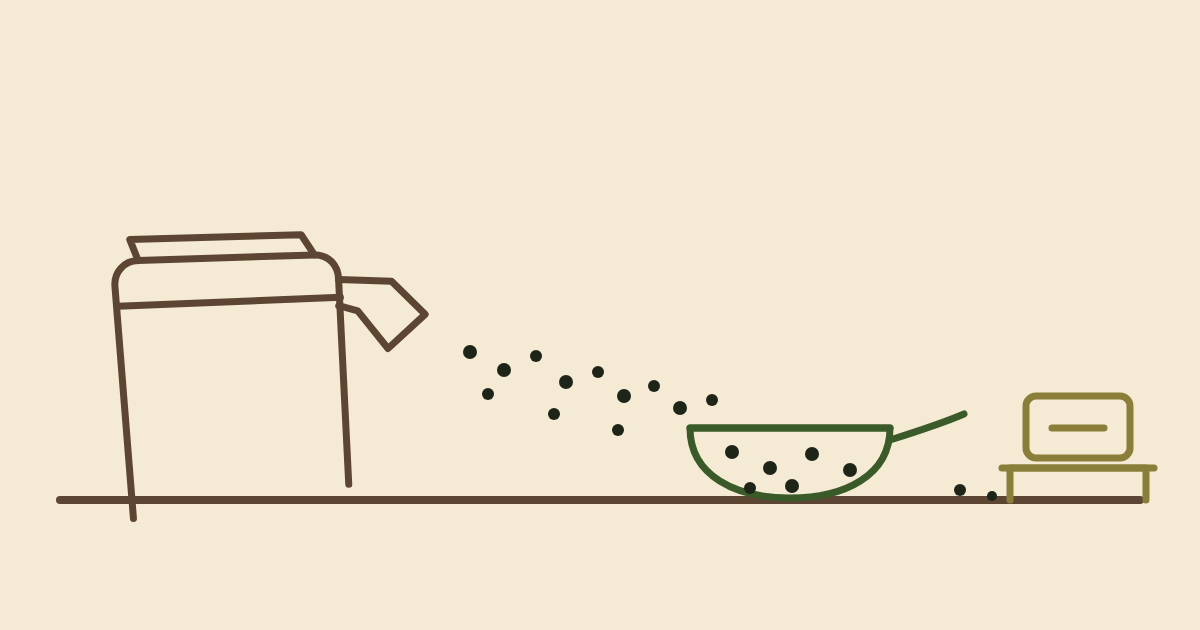
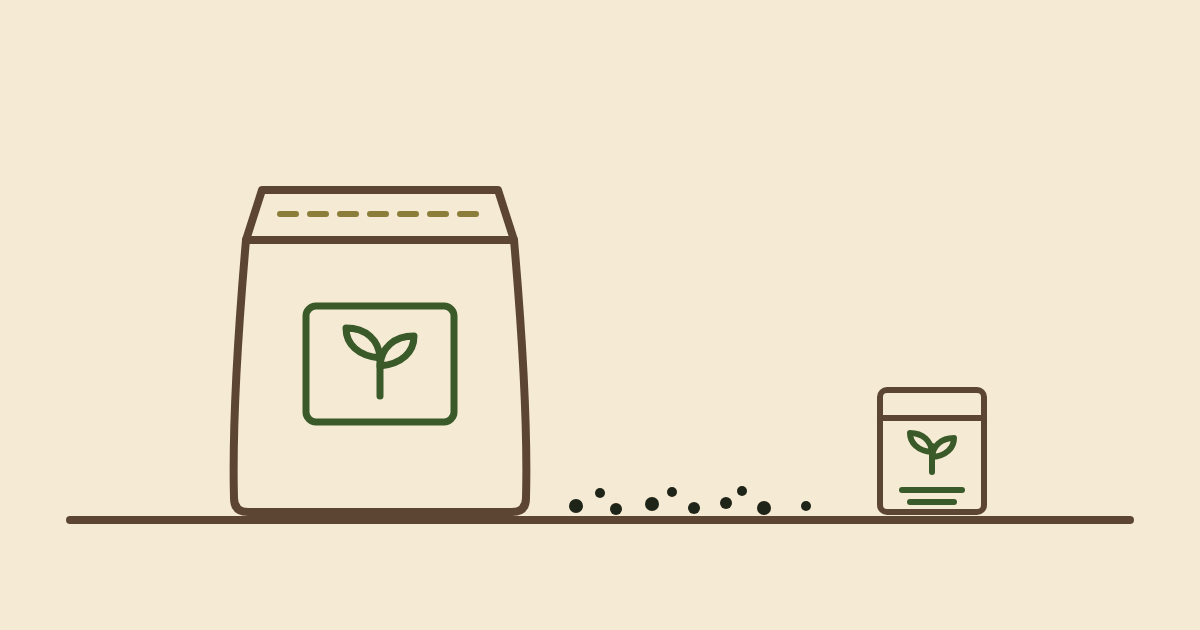
fix(blog): clarify grown-to-order on Sep 5, link supplier and redraw Sep 6 hero

Changed region(s): [[0.0308, 0.2714, 0.9867, 0.8444], [0.4933, 0.6635, 0.5242, 0.6937]]

diff --git a/CONTENT-PLAN.md b/CONTENT-PLAN.md
@@ -355,13 +355,13 @@ file back into `posts/`.
 | Wed Sep 2 | Permaculture | Guilds: plants that work in teams | Companion planting framed as permaculture. FL examples. Written as seven jobs a planting needs filled, then an **honest backwards read of our own food-forest mounds**, which were planted as a grocery list and not designed as guilds. Says so in the post rather than implying a design we did not do. Scores the mounds at five and a half of seven jobs and names the gap (no deep miner, comfrey is a poor fit here, moringa is the usual FL substitute and we do not have one in the ground). Florida section is ground cover as real work on sand plus the contour rule from Jul 16. 927 words. | [x] posts/guilds-plants-that-work-in-teams.md |
 | Thu Sep 3 | On the route | Why we stay small on purpose | Route capacity, quality, the anti-scale argument. **Angle set by Albert on 2026-08-30: route design around the family calendar.** The three routes exist because of the Friday home stretch, taekwondo and rock climbing nights, and church in Parramore, so the post argues the size was set by a calendar that already existed. **Contains no demand claim of any kind**, no drops, no regulars, no waiting list, per the 2026-08-13 correction. Ceiling is the shed and the Friday clock, and the trade named is cut-to-porch time, which is the one thing scale eats. Ends by owning the costs of small. 762 words. | [x] posts/why-we-stay-small-on-purpose.md |
 | Fri Sep 4 | Growing notes | OPEN | **The seed sourcing post moved to Sun Sep 6 on 2026-09-07.** Sep 4 was taken by the grocery-store backfill (see the Sep 12 row), and two posts cannot share a date, so the Growing notes post went to the next open row instead. Albert's call was to hold it, not drop it. | [ ] filled by posts/our-greens-versus-the-grocery-store.md |
-| Sat Sep 5 | Reader questions | Subscribe and save: how the 10% works | Standing orders explained. Link /subscribe/. Mechanics taken from `pages/subscribe.md`: $3.15 against $3.50, the day-before text, skip and pause and resume, pay on delivery, no card on file. **Framed as an offer throughout and never as something anyone is on**, per the 2026-08-13 correction. **The live subscribe page's "most of our customers were already buying the same thing every week" is pre-correction invented-customer copy and was deliberately not carried forward; the page itself was left alone per Albert's call.** The discount is explained as payment for information, since a forecastable order removes the seeding guess. **Rewritten 2026-09-07 against VOICE.md before publishing; the Aug 30 draft predated the voice contract and carried 0 contractions.** Opens on the price and the 3 mechanics facts instead of on the subject, and closes by handing the reader the job rather than summarizing. 396 words. | [x] posts/subscribe-and-save-how-the-10-percent-works.md |
+| Sat Sep 5 | Reader questions | Subscribe and save: how the 10% works | Standing orders explained. Link /subscribe/. Mechanics taken from `pages/subscribe.md`: $3.15 against $3.50, the day-before text, skip and pause and resume, pay on delivery, no card on file. **Framed as an offer throughout and never as something anyone is on**, per the 2026-08-13 correction. **The live subscribe page's "most of our customers were already buying the same thing every week" is pre-correction invented-customer copy and was deliberately not carried forward; the page itself was left alone per Albert's call.** The discount is explained as payment for information, since a forecastable order removes the seeding guess. **Rewritten 2026-09-07 against VOICE.md before publishing; the Aug 30 draft predated the voice contract and carried 0 contractions.** Opens on the price and the 3 mechanics facts instead of on the subject, and closes by handing the reader the job rather than summarizing. **Revised 2026-09-07 on Albert's note that everything is grown to order.** The mechanics paragraph read like picking from stock, so the section now says outright that nothing sits in a cooler, that a tray is seeded because an order exists, and that the weekly text confirms something already growing instead of placing an order. The substitution line was hedged to "if we have the trays," matching what the Jul text-before-the-drop post already published. 491 words. | [x] posts/subscribe-and-save-how-the-10-percent-works.md |
 
 ### Week 10 · Sep 6-12 · Arc 3
 
 | Date | Pillar | Working title | Angle | Status |
 |---|---|---|---|---|
-| Sun Sep 6 | Growing notes | Seed sourcing: who we buy from and why | **Row reassigned 2026-09-07. Albert confirmed chard is not available**, so the spotlight this row was holding could not run: same rule that pulled radish on Aug 10, no spotlight for something nobody can order. Chard went to `drafts/` beside radish, blocked on supply and not on writing, with its heroes committed so it is ready to date and move. The Sep 13 row note already permits reusing a spotlight row for a non-spotlight post once every eligible variety has a spotlight, and this is that case. The row took the Growing notes post displaced from Sep 4. **True Leaf Market is the only supplier (Albert, 2026-08-30); organic and non-GMO are the only 2 requirements claimed; no price, no shipping or germination claims, no invented reason for choosing the vendor.** Body is why seed is a different purchase at tray scale and the fact that seed is the one input you cannot fix later, closing on an admission that second-supplier redundancy is unsolved. **Rewritten against VOICE.md the same day**; the reader job at the end is to go read the back of a seed packet. 366 words. | [x] posts/seed-sourcing-who-we-buy-from.md |
+| Sun Sep 6 | Growing notes | Seed sourcing: who we buy from and why | **Row reassigned 2026-09-07. Albert confirmed chard is not available**, so the spotlight this row was holding could not run: same rule that pulled radish on Aug 10, no spotlight for something nobody can order. Chard went to `drafts/` beside radish, blocked on supply and not on writing, with its heroes committed so it is ready to date and move. The Sep 13 row note already permits reusing a spotlight row for a non-spotlight post once every eligible variety has a spotlight, and this is that case. The row took the Growing notes post displaced from Sep 4. **True Leaf Market is the only supplier (Albert, 2026-08-30); organic and non-GMO are the only 2 requirements claimed; no price, no shipping or germination claims, no invented reason for choosing the vendor.** Body is why seed is a different purchase at tray scale and the fact that seed is the one input you cannot fix later, closing on an admission that second-supplier redundancy is unsolved. **Rewritten against VOICE.md the same day**; the reader job at the end is to go read the back of a seed packet. **True Leaf Market is linked on first mention** to `https://www.trueleafmarket.com/`, matching the 4 existing posts that link it. **Hero redrawn 2026-09-07**: the pour-into-a-scoop drawing was cluttered and its scale ran off the table line, so it was replaced with the post's actual argument, a full sack beside a garden seed packet at true relative size. 366 words. | [x] posts/seed-sourcing-who-we-buy-from.md |
 | Mon Sep 7 | In the kitchen | Soups get their finish | First soup nights of fall. Garnish that matters. Opens by refusing the chill-in-the-air line, because it is September in Central Florida and there is no chill. Extends the Aug 24 pasta heat rule to its harder case: soup is wetter and stays hot, so anything stirred into the pot is gone. Bowl not pot, off to one side, steam does the work. Matches by soup type rather than by variety: pea for creamy, cilantro for brothy and spicy, kale for long-cooked, mild only for tomato because acid plus heat is hard on a tender leaf. Storage note states washing as the customer's step at their own sink. **Rewritten 2026-09-07 against VOICE.md, and chard was cut from the tomato-soup line because chard is out of rotation**, leaving broccoli. Subheads dropped from 3 to 1 per the voice note that a short post rarely needs them. 435 words. | [x] posts/soups-get-their-finish.md |
 | Tue Sep 8 | Homestead journal | September, and no list yet | **Row reassigned 2026-09-01.** The scheduled "Fall is Florida's spring" stays unwritable for the same reason it always was, and its cover-crop half is covered by Sep 9. This row now takes the fall garden post that was drafted for Sep 1 and displaced by the predator attack. **Albert confirmed 2026-09-01 that nothing about the fall garden has changed**, and gave one new fact: **our oldest daughter is still using her two beds.** That turns the angle from "we have not decided" into "we have nowhere to put it," which is a different post and not a rerun. **Three collisions shaped it.** Aug 4 already printed "we do not have a list yet" and the whole plan-in-pencil argument, so that thesis is spent and is not re-argued; what Aug 4 gives instead is a dated promise ("we will figure it out in September") that the post opens by paying off. Aug 18 owns pile readiness, so the caps get one reference. The daughter's second-bed origin story has been spent four times and is **not retold**; the unpublished fact is that the beds are occupied. Aug 4's closer was also already used, so this one ends differently. **No pile count, no crop list for her beds, no fall crop list of our own.** Zero subheads and no CTA, both deliberate. 492 words, the shortest homestead journal in the archive, in a pillar that had never gone below 517. **Date references were rewritten from the first of the month to the eighth when it moved.** **Open question for review: it runs one week after the predator post and does not acknowledge it.** | [x] posts/september-and-no-list-yet.md |
 | Wed Sep 9 | Permaculture | Chop and drop | Turning cover crops into mulch in place. **This is the post the Aug 25 check-in promised in print** ("what happens to all of it eventually is its own post, and it is coming in September"), so it opens by paying that off. Technique first, then what you throw away by hauling: mulch now, a slow feed, and root dieback under legumes. Our own run is the sunn hemp chopped to eighteen inches about two months in and left lying, then the Jul 30 mow and the Aug 1 broadcast over residue. **Per-acre figure deliberately not published; the pass is written as the bag we had and close enough, never as label-rate and never as a mistake. No hunting implication.** Ends by refusing to invent a cut date for the current stand. 944 words. | [x] posts/chop-and-drop.md |

diff --git a/posts/subscribe-and-save-how-the-10-percent-works.md b/posts/subscribe-and-save-how-the-10-percent-works.md
@@ -1,6 +1,6 @@
 ---
 title: "Subscribe and save: how the 10% works"
-description: "The standing order discount, explained plainly. What it costs, how the weekly text works, how to skip a week, and why a forecastable order is worth a discount to a grower."
+description: "The standing order discount, explained plainly. What it costs, how the weekly text works, how to skip a week, and why greens grown to order make a forecastable week worth paying for."
 date: 2026-09-05T09:00:00-04:00
 pillar: Reader questions
 hero: /assets/blog/subscribe-and-save-how-the-10-percent-works.svg
@@ -18,7 +18,11 @@ Most people asking about a subscription aren't really asking about the price. Th
 
 Place a first order the normal way and check the box that makes it weekly. That's the last form you fill out.
 
-After that it's the same every week. We text you the day before your delivery to confirm. Reply "skip" and that week is off, no charge. Reply with something different and we bring that instead. Going away for a month? Reply "pause," and we stop texting until you say "resume."
+One thing to be clear about before the mechanics, because it changes what the mechanics mean. Nothing is sitting in a cooler waiting for a buyer. We don't grow greens and then go looking for somebody to take them. A tray gets seeded because an order exists, and yours goes in about a week and a half before it reaches your porch.
+
+So the weekly text isn't an order form. It's a confirmation of something already growing.
+
+It comes the day before your delivery. Reply "skip" and that week is off, no charge. Reply asking for something different and we'll bring it if we have the trays, since a change to what you get every week is a seeding decision and not a shelf decision. The sooner you tell us, the easier it is to plant for. Going away for a month? Reply "pause," and we stop texting until you say "resume."
 
 You pay on delivery, weekly, by Venmo or Zelle or cash. No card on file, no recurring billing, no account to log into. [The whole thing runs on text messages](/blog/the-text-before-the-drop/), same as every other order we take.
 
@@ -26,7 +30,7 @@ You pay on delivery, weekly, by Venmo or Zelle or cash. No card on file, no recu
 
 A discount is never generosity, so it's worth saying what we're buying with it.
 
-A tray is a decision made a week and a half before anybody eats it. Seed goes down, it sits in [blackout](/blog/the-blackout-phase/), it comes up under lights, and somewhere between day 8 and day 14 depending on the variety it's ready whether or not it has anywhere to go. A grower guessing at next Friday plants too much and cuts what nobody wanted, or plants too little and has nothing when somebody asks.
+Go back to that week and a half. Seed goes down, it sits in [blackout](/blog/the-blackout-phase/), it comes up under lights, and somewhere between day 8 and day 14 depending on the variety it's ready whether or not it has anywhere to go. A grower guessing at next Friday plants too much and cuts what nobody wanted, or plants too little and has nothing when somebody asks.
 
 An order we can see coming takes the guess out. That's worth real money on the growing side, and the 10% is us handing that value back instead of pocketing it. It isn't a loyalty program. We're paying you for information.
 

diff --git a/posts/seed-sourcing-who-we-buy-from.md b/posts/seed-sourcing-who-we-buy-from.md
@@ -4,11 +4,11 @@ description: "One supplier, two requirements. Why microgreen seed is bought by t
 date: 2026-09-06T09:00:00-04:00
 pillar: Growing notes
 hero: /assets/blog/seed-sourcing-who-we-buy-from.svg
-hero_alt: "Line drawing of a large seed sack pouring seed into a measuring scoop, with a small kitchen scale on the table beside it"
+hero_alt: "Line drawing of a large seed sack standing on a table beside a much smaller garden seed packet, with a scattering of seed on the table between them"
 image: /assets/blog/seed-sourcing-who-we-buy-from.png
 ---
 
-True Leaf Market. That's the list.
+[True Leaf Market](https://www.trueleafmarket.com/). That's the list.
 
 A post called "who we buy from and why" is supposed to have a comparison table in it, and a paragraph about agonizing over 3 vendors. We didn't. One supplier covers what we grow, the seed does what it's supposed to do, and there's been no reason to go looking.
 
